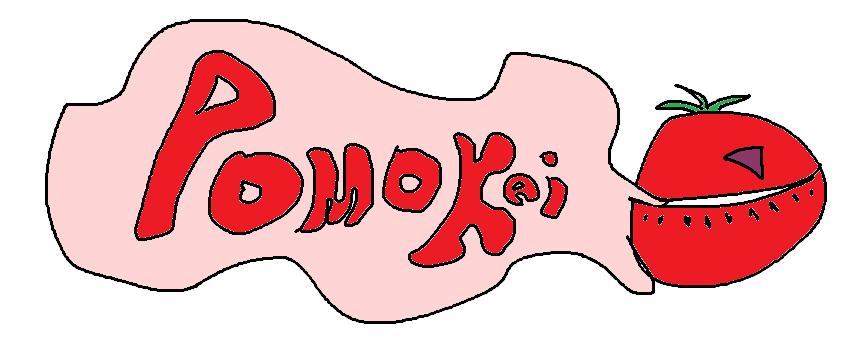
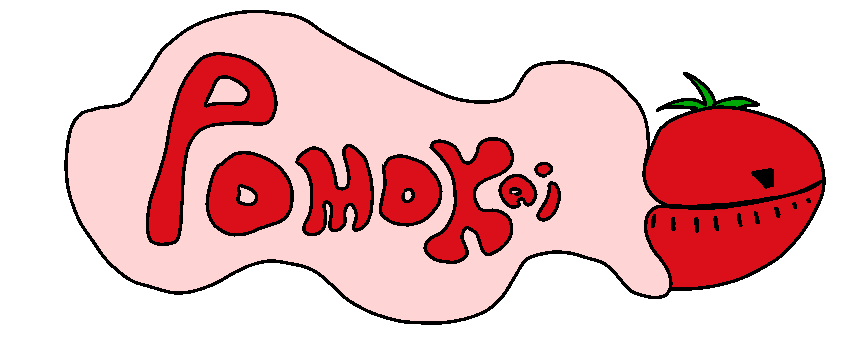
html e css adicionando pomodoro e ajuste

diff --git a/style.css b/style.css
@@ -1,44 +1,3 @@
-
-
-header {
-    background-color: #ffffff;
-    border: 3px double #000000; 
-    padding: 15px 20px;
-    margin: 10px;
-    display: flex;
-    justify-content: center; 
-}
-
-header ul {
-    list-style: none;
-    margin: 0;
-    padding: 0;
-    display: flex;
-    gap: 20px; 
-}
-
-header ul li {
-    font-family: sans-serif;
-    font-weight: bold;
-    font-size: 14px;
-    cursor: pointer;
-    padding: 10px 20px;
-    border: 2px solid #000000;
-    box-shadow: 4px 4px 0px #000000;
-    transition: all 0.1s ease; 
-    user-select: none;
-}
-
-header ul li:active {
-    transform: translate(4px, 4px); 
-    box-shadow: 0px 0px 0px #000000; 
-}
-
-.logo{
-    display: block;
-    margin: 20px auto;
-}
-
 .register {
     text-align: center;
     width: 300px;
@@ -91,7 +50,7 @@ header ul li:active {
 
 .cards-pomokais:nth-of-type(2) {
     background-color: #ff6333;
-     border-right: 5px solid #463b3b;
+    border-right: 5px solid #463b3b;
     border-bottom: 5px solid #000000;
     margin-left: auto;
 }
@@ -99,7 +58,7 @@ header ul li:active {
 
 .cards-pomokais:nth-of-type(3) {
     background-color: #c4ff3b;
-     border-right: 5px solid #3b463d;
+    border-right: 5px solid #3b463d;
     border-bottom: 5px solid #000000;
 }
 
@@ -113,8 +72,66 @@ header ul li:active {
     background-color: #ffffff;
     border-right: 3px double;
     padding: 20px;
-    margin: 10px auto 20px 0px; 
+    margin-right: auto;
     text-align: left;
     width: 400px;
     height: 700px;
+}
+
+.container-pomodoro {
+    background-color: #ffffff;
+    border-left: 3px double;
+    border-right: 3px double;
+    padding: 40px 70px 0 0;
+    margin-left: 23%;
+    width: 400px;
+    height: 700px;
+    display: flex;
+    flex-direction: column;    /* Empilha o conteúdo (Texto, Timer, Botões) um embaixo do outro */
+    align-items: center;       
+    gap: 20px;
+}
+
+header {
+    background-color: #ffffff;
+    border-bottom: 3px double #000000;
+    padding: 15px 20px;
+    margin-top: auto;
+    display: flex;
+    justify-content: center;
+}
+
+header ul {
+    list-style: none;
+    margin: 0;
+    padding: 5;
+    display: flex;
+    gap: 300px;
+}
+
+header ul li {
+    background-color: #000000;
+    font-family: sans-serif;
+    font-weight: bold;
+    font-size: 11px;
+    cursor: pointer;
+    margin: 40px 0;
+    padding: 12px 30px 10px 30px;
+    user-select: none;
+    font-family: "Press Start 2P", system-ui;
+}
+
+.navperfil {
+    display: flex;
+    margin-left: 380px;
+}
+
+.logo {
+    display: block;
+    margin-left: auto;
+}
+
+.header img {
+    width: 110px;
+    height: 80px;
 }

diff --git a/pomodoro.html b/pomodoro.html
@@ -1,0 +1,45 @@
+<!DOCTYPE html>
+<html lang="pt-BR">
+
+<head>
+    <meta charset="UTF-8">
+    <meta name="viewport" content="width=device-width, initial-scale=1.0">
+    <title>Pomokai</title>
+    <link rel="stylesheet" href="style.css">
+    <link rel="preconnect" href="https://fonts.googleapis.com">
+    <link rel="preconnect" href="https://fonts.gstatic.com" crossorigin>
+    <link
+        href="https://fonts.googleapis.com/css2?family=Press+Start+2P&family=Roboto:ital,wght@0,100..900;1,100..900&display=swap"
+        rel="stylesheet">
+</head>
+
+<body background-color="#f0f0f0">
+
+    <header class="header">
+        <nav>
+            <ul>
+                <li class="active"><a href="dashboard.html">Lista de Tarefas</a></li>
+                <li class="active"><a href="pomodoro.html">Pomodoro</a></li>
+                <li class="active"><a href="dashboard.html">Campokai</a></li>
+            </ul>
+        </nav>
+
+        <div class="navperfil">
+            <nav>
+                <ul>
+                    <li><a href="#">Perfil</a></li>
+                </ul>
+            </nav>
+        </div>
+        <div class="logo">
+            <img src="img/pomokailogo.png" alt="Logo do Pomokai" class="icon">
+        </div>
+    </header>
+    <main class="container-pomodoro">
+
+<p>oi aqui vai ficar o pomodoro mas eu nao sei fazer nada disso ainda</p>
+
+    </main>
+</body>
+
+</html>

diff --git a/dashboard.html b/dashboard.html
@@ -1,9 +1,10 @@
 <!DOCTYPE html>
 <html lang="pt-BR">
+
 <head>
     <meta charset="UTF-8">
     <meta name="viewport" content="width=device-width, initial-scale=1.0">
-    <title>Pomokai - Lista de Tarefas</title>
+    <title>Pomokai</title>
     <link rel="stylesheet" href="style.css">
     <link rel="preconnect" href="https://fonts.googleapis.com">
     <link rel="preconnect" href="https://fonts.gstatic.com" crossorigin>
@@ -11,26 +12,37 @@
         href="https://fonts.googleapis.com/css2?family=Press+Start+2P&family=Roboto:ital,wght@0,100..900;1,100..900&display=swap"
         rel="stylesheet">
 </head>
+
 <body background-color="#f0f0f0">
 
-    <header class="app-header">
-        <div class="logo">POMOKAI</div>
+    <header class="header">
         <nav>
             <ul>
-                <li class="active"><a href="tarefas.html">Lista de Tarefas</a></li>
-                <li><a href="dashboard.html">Pomodoro</a></li>
-                <li><a href="#">Meu Perfil</a></li>
+                <li class="active"><a href="dashboard.html">Lista de Tarefas</a></li>
+                <li class="active"><a href="pomodoro.html">Pomodoro</a></li>
+                <li class="active"><a href="dashboard.html">Campokai</a></li>
             </ul>
         </nav>
-    </header>
 
+        <div class="navperfil">
+            <nav>
+                <ul>
+                    <li><a href="#">Perfil</a></li>
+                </ul>
+            </nav>
+        </div>
+        <div class="logo">
+            <img src="img/pomokailogo.png" alt="Logo do Pomokai" class="icon">
+        </div>
+    </header>
     <main class="container-tarefas">
-        
+
         <section class="intro-tarefas">
             <h1>Sua Lista de Tarefas</h1>
             <p class="legenda-lore">
-                Os Pomokais se alimentam de energia. Quando você conclui uma tarefa que exige esforço, você gera 
-                <mark class="ectoplasma-highlight">ectoplasma</mark>, a essência necessária para fazê-los crescer e evoluir! 
+                Os Pomokais se alimentam de energia. Quando você conclui uma tarefa que exige esforço, você gera
+                <mark class="ectoplasma-highlight">ectoplasma</mark>, a essência necessária para fazê-los crescer e
+                evoluir!
             </p>
         </section>
 
@@ -65,4 +77,5 @@
     </main>
 
 </body>
+
 </html>